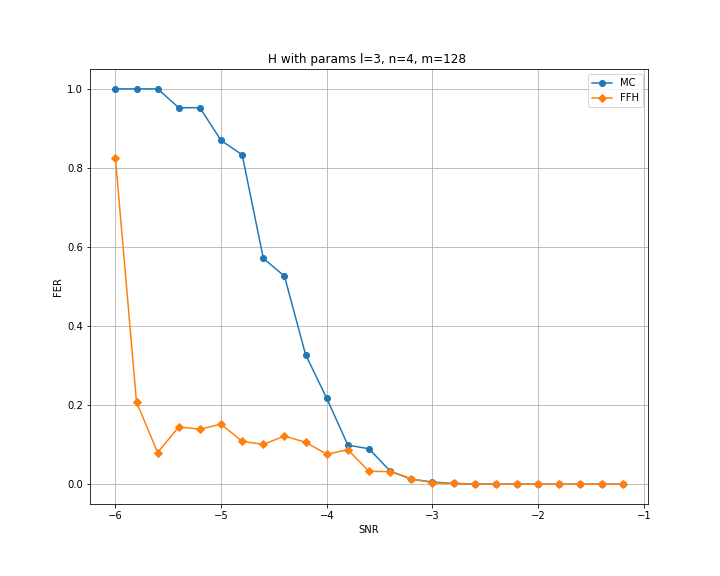
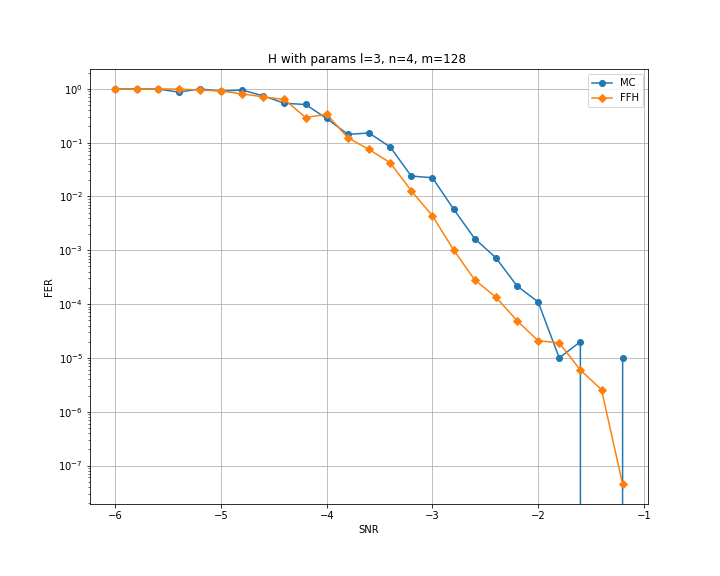
FFH still works bad

diff --git a/LDPC_cpp/src/FastFlatHistSimulator.cpp b/LDPC_cpp/src/FastFlatHistSimulator.cpp
@@ -51,23 +51,24 @@ void FastFlatHistSimulator::Run(std::vector<double> snrArray,
 		double Vmin = V.first, Vmax = V.second;
 
 		std::vector<double> prob(L, log(1.0 / L));
+
 		std::vector<double> z(_n, 0);
 		//z = findStartPoint(codeword);
 		std::normal_distribution<double> norm_distr(0, sigma);
 		std::uniform_real_distribution<double> un_distr(0.0, 1.0);
 		int cur_bin = 0;
 		int wrong_dec = 0;
-		int ar_total = 0;
-		int ar_ac = 0;
-		int real_it = 0;
+		//int ar_total = 0;
+		//int ar_ac = 0;
 		bool isReached = false;
 		int iterations_count = 0;
+		size_t current_iteration = 0;
 		
-
-		for (size_t it = 0; it < _maxTestsCount; ++it) {
+		std::cout << "SNR: " << snrArray[ii] << " ===== sigma: " << sigma << " =========" << std::endl;
+		for (current_iteration = 0; current_iteration < _maxTestsCount; ++current_iteration) {
 			bool is_flat = false;
 
-			std::cout << "---------New iteration-------------------------------" << it << "---\n";
+			std::cout << "--New iteration---" << current_iteration << "--------------------------\n";
 
 			int flatnessCheck = 0;
 			while (!is_flat && flatnessCheck < MaxFlatnessCheck) {
@@ -90,35 +91,35 @@ void FastFlatHistSimulator::Run(std::vector<double> snrArray,
 				new_bin = std::max(new_bin, 0);
 
 				double prob_stat_acceptance = std::min(std::exp(prob[cur_bin] - prob[new_bin]), 1.0);
-				ar_total++;
+				//ar_total++;
 				if (un_distr(gen) <= prob_stat_acceptance) {
 					z = new_z;
 					cur_bin = new_bin;
-					ar_ac++;
+					//ar_ac++;
 				}
 				prob[cur_bin] += log(f);
 				for (size_t i = 0; i < _n; i++) {
 					llrs[i] = -2 * (2 * codeword[i] - 1 + z[i]) / (sigma * sigma);
 				}
 				decoded = _decoderPtr->Decode(llrs, &isFailed);
-				H[cur_bin][it] += 1;
+				H[cur_bin][current_iteration] += 1;
 				
 				if (decoded != codeword) {
-					G[cur_bin][it] += 1;
-					if (it != 0)      // skip one iteration
+					G[cur_bin][current_iteration] += 1;
+					if (current_iteration != 0)      // skip one iteration
 						wrong_dec++;
 				}
 				if (!isReached && wrong_dec >= _maxRejectionsCount) {
 					isReached = true;
-					std::cout << "Found-----------------------" << wrong_dec << "\n";
+					std::cout << "----Found rejections: " << wrong_dec << " --------------\n";
 				}
 				iterations_count += 1;
 				if (iterations_count == check_const) {
 					flatnessCheck++;
-					if (hist_is_flat(H, it)) {
+					if (hist_is_flat(H, current_iteration)) {
 						is_flat = true;
 					}
-					// std::cout << "Is flat: " << is_flat << "\n";
+					std::cout << "------Is flat: " << is_flat << "----------\n";
 					iterations_count = 0;
 				}
 			}
@@ -128,6 +129,7 @@ void FastFlatHistSimulator::Run(std::vector<double> snrArray,
 		}
 
 #ifdef DEBUG // Save info to file
+		
 		std::string resultsFilename = "ffh.prob.H.G.debug";
 		std::ofstream resultsFile;
 		resultsFile.open(resultsFilename, std::fstream::out);
@@ -160,15 +162,17 @@ void FastFlatHistSimulator::Run(std::vector<double> snrArray,
 			
 			prob_sum += std::exp(p - prob_mean);
 		}
-		 
+		
+		int iterationsCountsTotal = 0;
+		size_t iteration_counts = current_iteration + 1;
 		for (size_t bin_num = 0; bin_num < L; ++bin_num) {
 			int el_num = 0, er_num = 0;
-			for (size_t it_num = 0; it_num < _maxTestsCount; ++it_num) {
-				el_num += H[bin_num][it_num];
-				er_num += G[bin_num][it_num];
+			for (size_t iter = 0; iter <= iteration_counts; ++iter) {
+				el_num += H[bin_num][iter];
+				er_num += G[bin_num][iter];
 			}
 			if (el_num != 0) {
-				
+				iterationsCountsTotal += el_num;
 				prob_error += std::exp(prob[bin_num] - prob_mean) / prob_sum * er_num / el_num;
 			}
 		}
@@ -178,52 +182,8 @@ void FastFlatHistSimulator::Run(std::vector<double> snrArray,
 		ebn0Array[ii] = GetEbN0(snrArray[ii], _m, _n);
 		ferArray[ii] = prob_error;
 		elapsedTimeArray[ii] = std::chrono::duration_cast<std::chrono::milliseconds>(t2 - t1);
-		testsCountArray [ii] = iterations_count;
+		testsCountArray [ii] = iterationsCountsTotal;
 	}
-}
-
-std::vector<double> FastFlatHistSimulator::findStartPoint(const std::vector<int>& codeword) {
-	std::vector<double> startPoint(_n, 0), llrs(_n);
-	std::vector<int> decoded;
-	int l = -1, r = _n + 1;
-	bool isError, isFailed;
-	int mPrev = -1, m;
-	while (r - l > 1) {
-		m = (l + r) / 2;
-
-		// Invariant: [0, mPrev] inversed
-		if (m > mPrev) {
-			for (int i = mPrev + 1; i <= m; i++) {
-				if (!codeword[i]) startPoint[i] = 1.001;
-				else startPoint[i] = -1.001;
-			}
-		}
-		else {
-			for (size_t i = m + 1; i <= mPrev; i++) {
-				startPoint[i] = 0;
-			}
-		}
-		mPrev = m;
-
-		for (size_t i = 0; i < _n; i++) {
-			llrs[i] = -1 * (2 * codeword[i] - 1 + startPoint[i]);
-		}
-		isError = false;
-		decoded = _decoderPtr->Decode(llrs, &isFailed);
-		if (decoded != codeword) {
-			isError = true;
-		}
-
-		if (!isError) {
-			l = m;
-		}
-		else {
-			r = m;
-		}
-	}
-	if (!codeword[r]) startPoint[r] = 1.001;
-	else startPoint[r] = -1.001;
-	return startPoint;
 }
 
 double FastFlatHistSimulator::normal_pdf(double x, double m, double s) {

diff --git a/LDPC_cpp/src/main.cpp b/LDPC_cpp/src/main.cpp
@@ -75,15 +75,15 @@ void FfhRun() {
 	std::string resultsFolder = "../Results/FromMatlabScript/";
 
 	std::vector<std::tuple<std::string, double, double>> tests = {
-		{"h_3_4_128.sprs", -3.0, -1.0}/*,
-		{"h_3_4_512.sprs", -6.0, -1.0},
-		{"h_3_4_2048.sprs", -6.0, -1.0},
+		{"h_3_4_128.sprs", -6.0, -1.5},
+		{"h_3_4_512.sprs", -6.0, -1.5},
+		{"h_3_4_2048.sprs", -6.0, -1.5},
 		{"h_3_6_128.sprs", -3.0, 1.0},
 		{"h_3_6_512.sprs", -3.0, 1.0},
 		{"h_3_6_2048.sprs", -3.0, 1.0},
 		{"h_3_15_128.sprs", 1.0, 3.6},
 		{"h_3_15_512.sprs", 1.0, 3.6},
-		{"h_3_15_2048.sprs", 1.0, 3.6}*/
+		{"h_3_15_2048.sprs", 1.0, 3.6}
 	};
 
 	for (auto& test : tests) {
@@ -98,7 +98,7 @@ void FfhRun() {
 		simulationParams.simulationTypeParams = std::unordered_map<std::string, std::string>(
 			{
 				{ "maxTestsCount", "10" },
-				{ "maxRjectionsCount", "200" },
+				{ "maxRjectionsCount", "500" },
 				{ "skipIterations", "2000" },
 				{ "epsilon", "1" },
 				{ "percent", "0.9" }
@@ -140,7 +140,7 @@ void LfhRun() {
 	std::string resultsFolder = "../Results/FromMatlabScript/";
 
 	std::vector<std::tuple<std::string, double, double>> tests = {
-		{"h_3_4_128.sprs", -3.0, -3.0}/*
+		{"h_3_4_128.sprs", -6.0, -1.5}/*
 		"h_3_4_512.sprs"
 		"h_3_4_2048.sprs",
 		"h_3_6_128.sprs",
